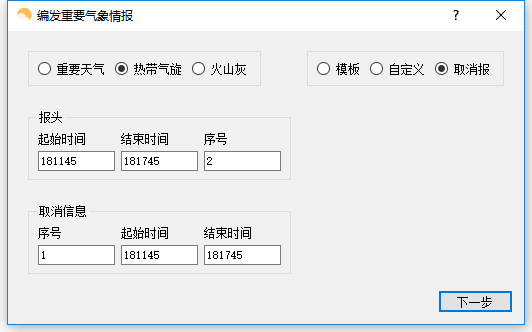
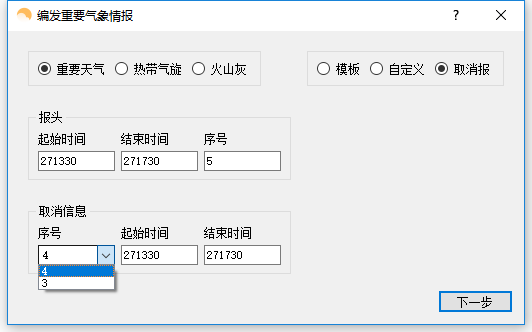
更新 SIGMET 相关文档

diff --git a/docs/guide.rst b/docs/guide.rst
@@ -299,13 +299,17 @@ SIGMET 报文的编辑
 
 通用模板
 """""""""""""""
-.. image:: /images/sigmet_general_template.png
+.. image:: /images/sigmet_general_template_polygon.png
 
 通用模板适用于快速编辑雷暴、积冰、颠簸的重要气象情报。
 
 报文的起始时间、结束时间、发布序号会自动生成。
 
-天气区域的选择推荐使用点坐标的方式，最大支持 7 个点，虚线表示正在编辑，实线表示编辑完成：
+天气区域的选择主要有三种方式，点，线和经纬度，点击区域右上角的 **淡蓝色图标** 可在三种状态之间切换。
+
+**点**
+
+最大支持 7 个点，虚线表示正在编辑，实线表示编辑完成，点的生成顺序为顺时针方向，最后一个点和初始点相同显式闭合：
 
     * :kbd:`鼠标左键` 添加坐标点
 
@@ -313,10 +317,27 @@ SIGMET 报文的编辑
 
     * 在已有两个点时，在初始点附近点击可以形成实线闭合区域，表示编辑完成
 
-    * 在编辑完成时，程序会自动计算所选区域和情报区边界的交集
+    * 在编辑完成时，程序会自动计算所选区域和情报区边界的交集，如果交集的点超过 7 个，会自动平滑到 7 个点以内
+      
+**线**
 
+线的编辑方式和点的类似，只是在计算交集时不会对点平滑处理，同样，点的的生成顺序为顺时针方向。
 
-.. note:: 通用模板不支持多块区域的编辑，如有需要请选择自定义的方式编辑。
+**经纬度**
+
+.. image:: /images/sigmet_canvas_select_rectangular.png
+
+经纬度最多支持 4 条线构成一个区域，略有不同于点和线的编辑方式：
+
+    * :kbd:`鼠标左键` 添加初始坐标点，同时按住 :kbd:`鼠标左键` 拖拽不放可以框选区域，如上图蓝色部分所示，松开 :kbd:`鼠标左键` 完成区域的选定
+
+    * :kbd:`鼠标右键` 删除整个区域
+      
+已发送的 SIGMET 在有效期内会在底图中显示，图中的编号为 SIGMET 编号。
+
+.. image:: /images/sigmet_canvas_decode.png
+      
+.. note:: 通用模板不支持多块区域的编辑，如果想发布多块区域，应该发布多份 SIGMET。
 
 热带气旋模板
 """""""""""""""
@@ -347,7 +368,9 @@ SIGMET 报文的编辑
 ^^^^^^^^^^^
 .. image:: /images/cancel_sigmet.png
 
-如果有需要取消的报文，取消报会填入。
+如果有需要取消的报文，可以选择 SIGMET 的序号，对应的取消信息会自动填入。
+
+填入系统中不存在的 SIGMET 序号，取消信息需自行手动输入。
 
 取消信息的结束时间会和报头的结束时间一致。
 
@@ -356,5 +379,5 @@ SIGMET 报文的编辑
 ^^^^^^^^^^^
 .. image:: /images/sigmet_preview.png
 
-SIGMET 的预览会检查字符是否符合行业标准，但不检查逻辑准确性，如果出现标红字体请仔细检查，并确认发布。
+SIGMET 的预览会检查字符是否符合行业标准，但不检查逻辑准确性，如果出现 **标红字体** 请仔细检查，并确认发布。
 
